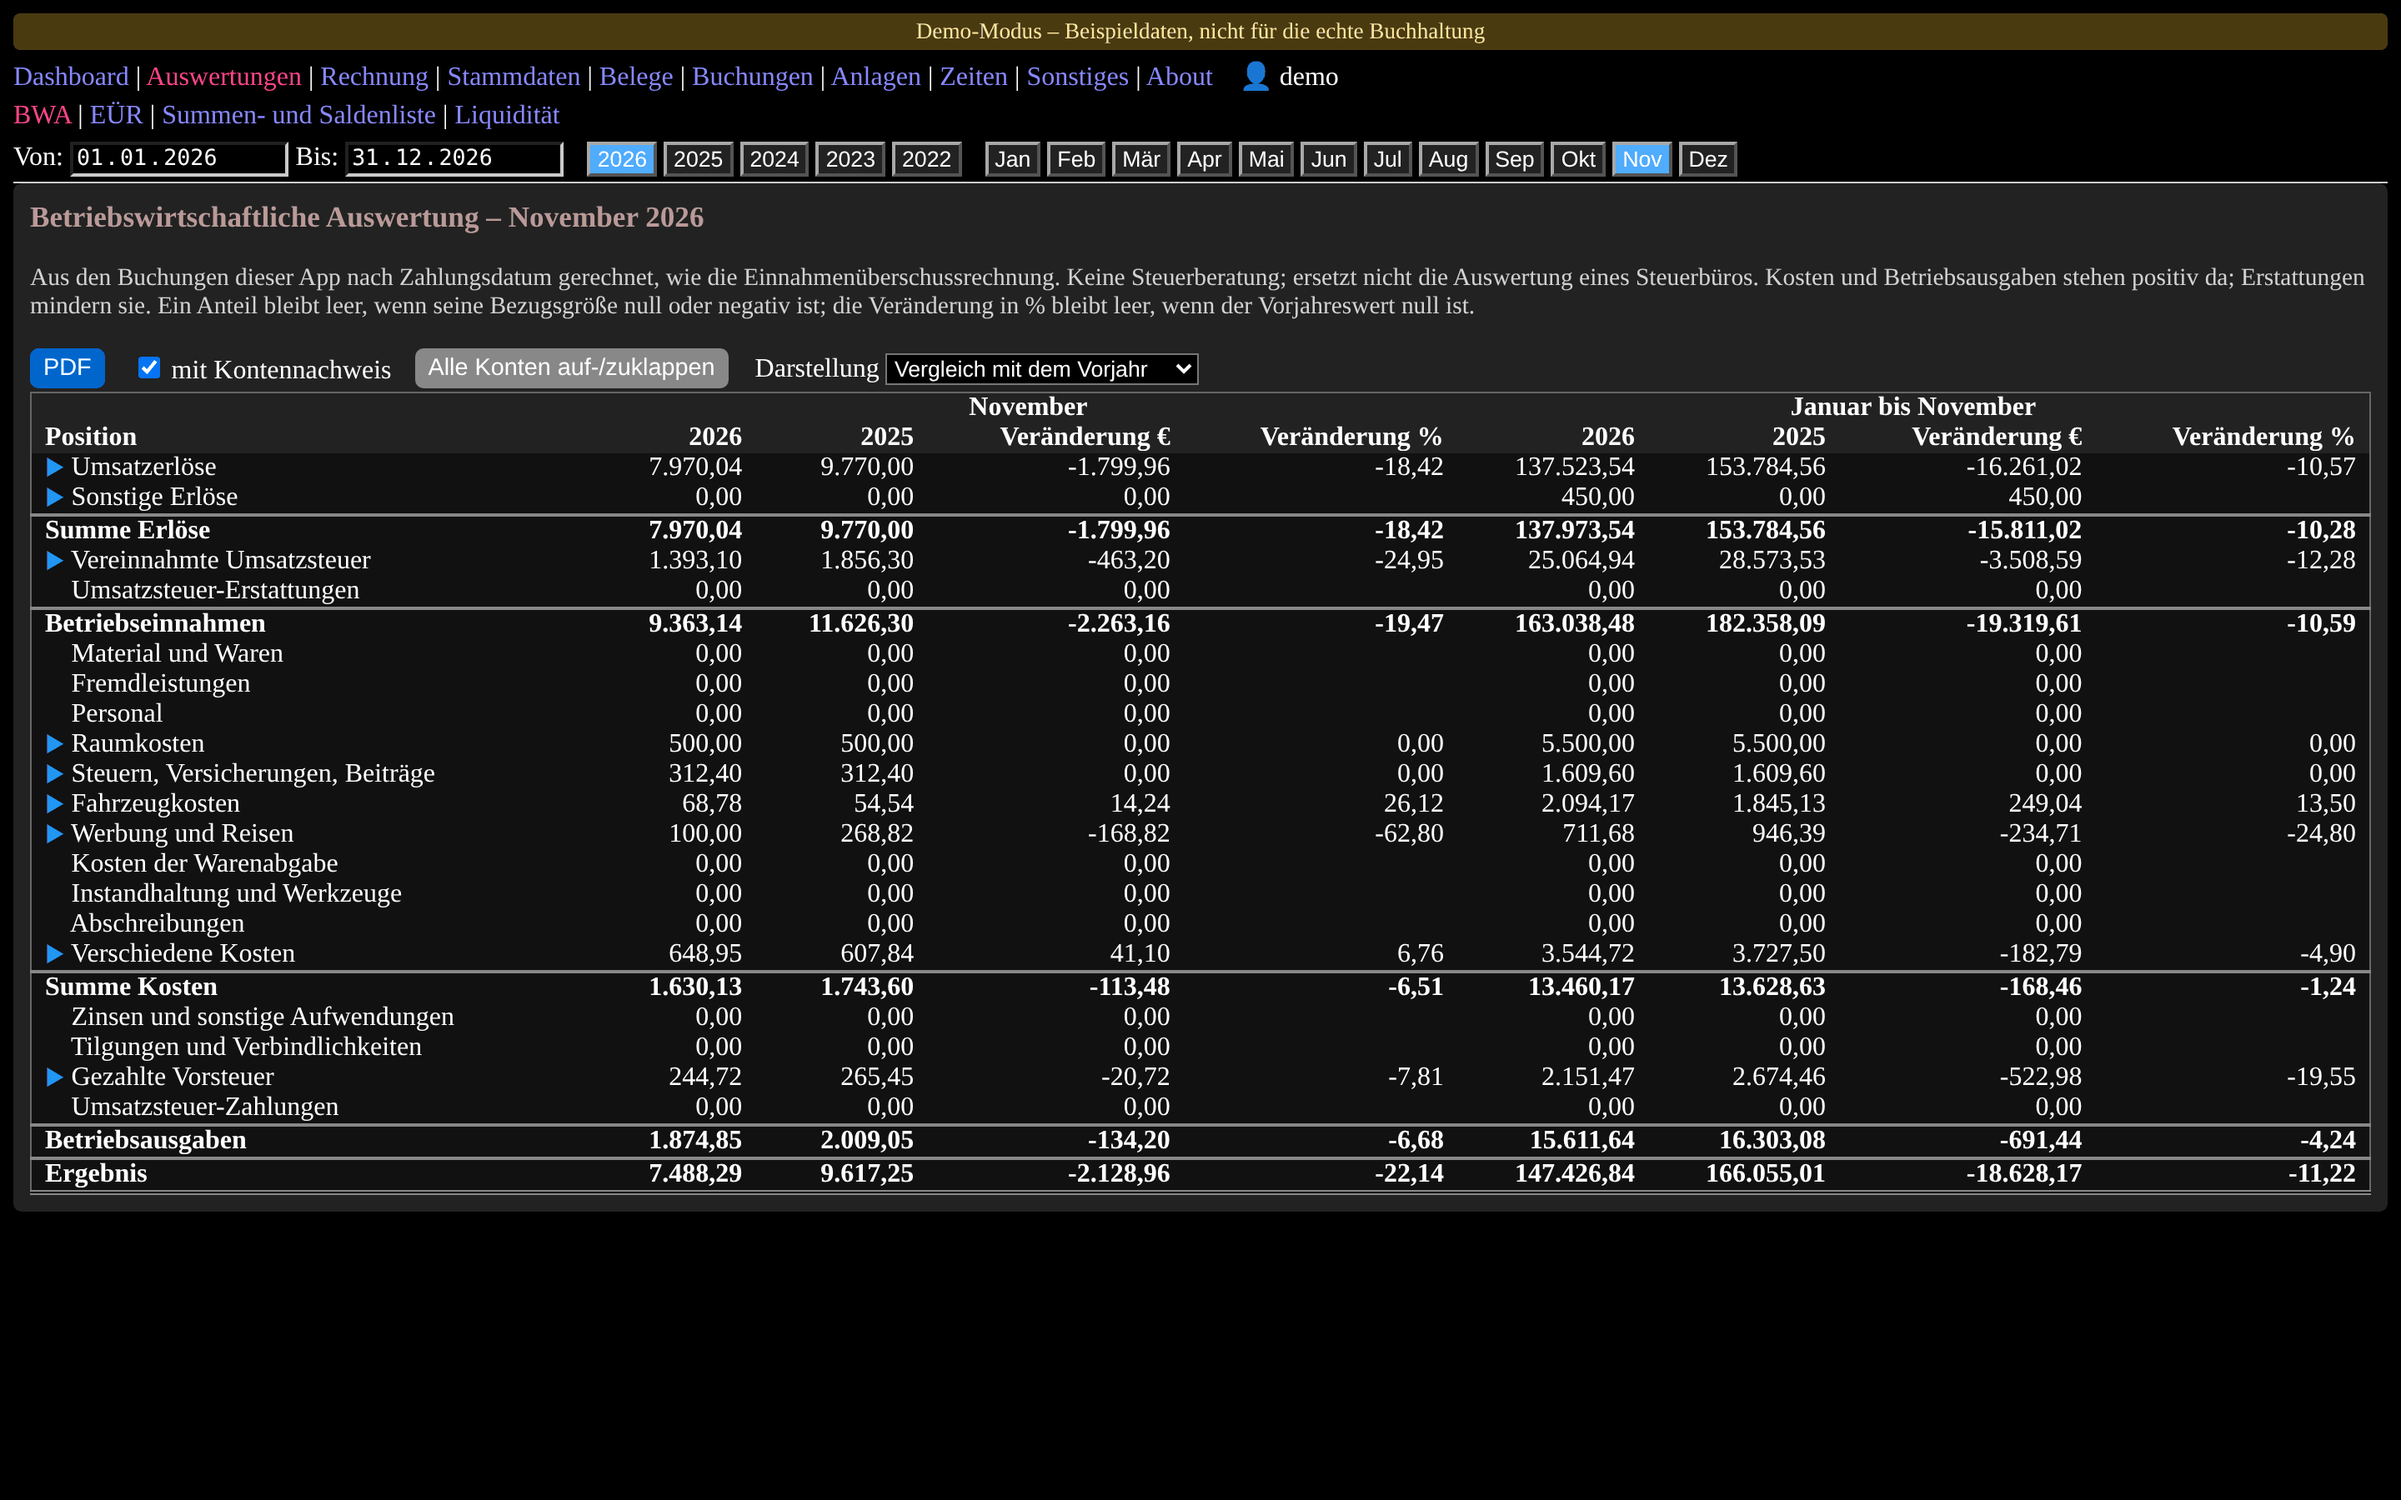
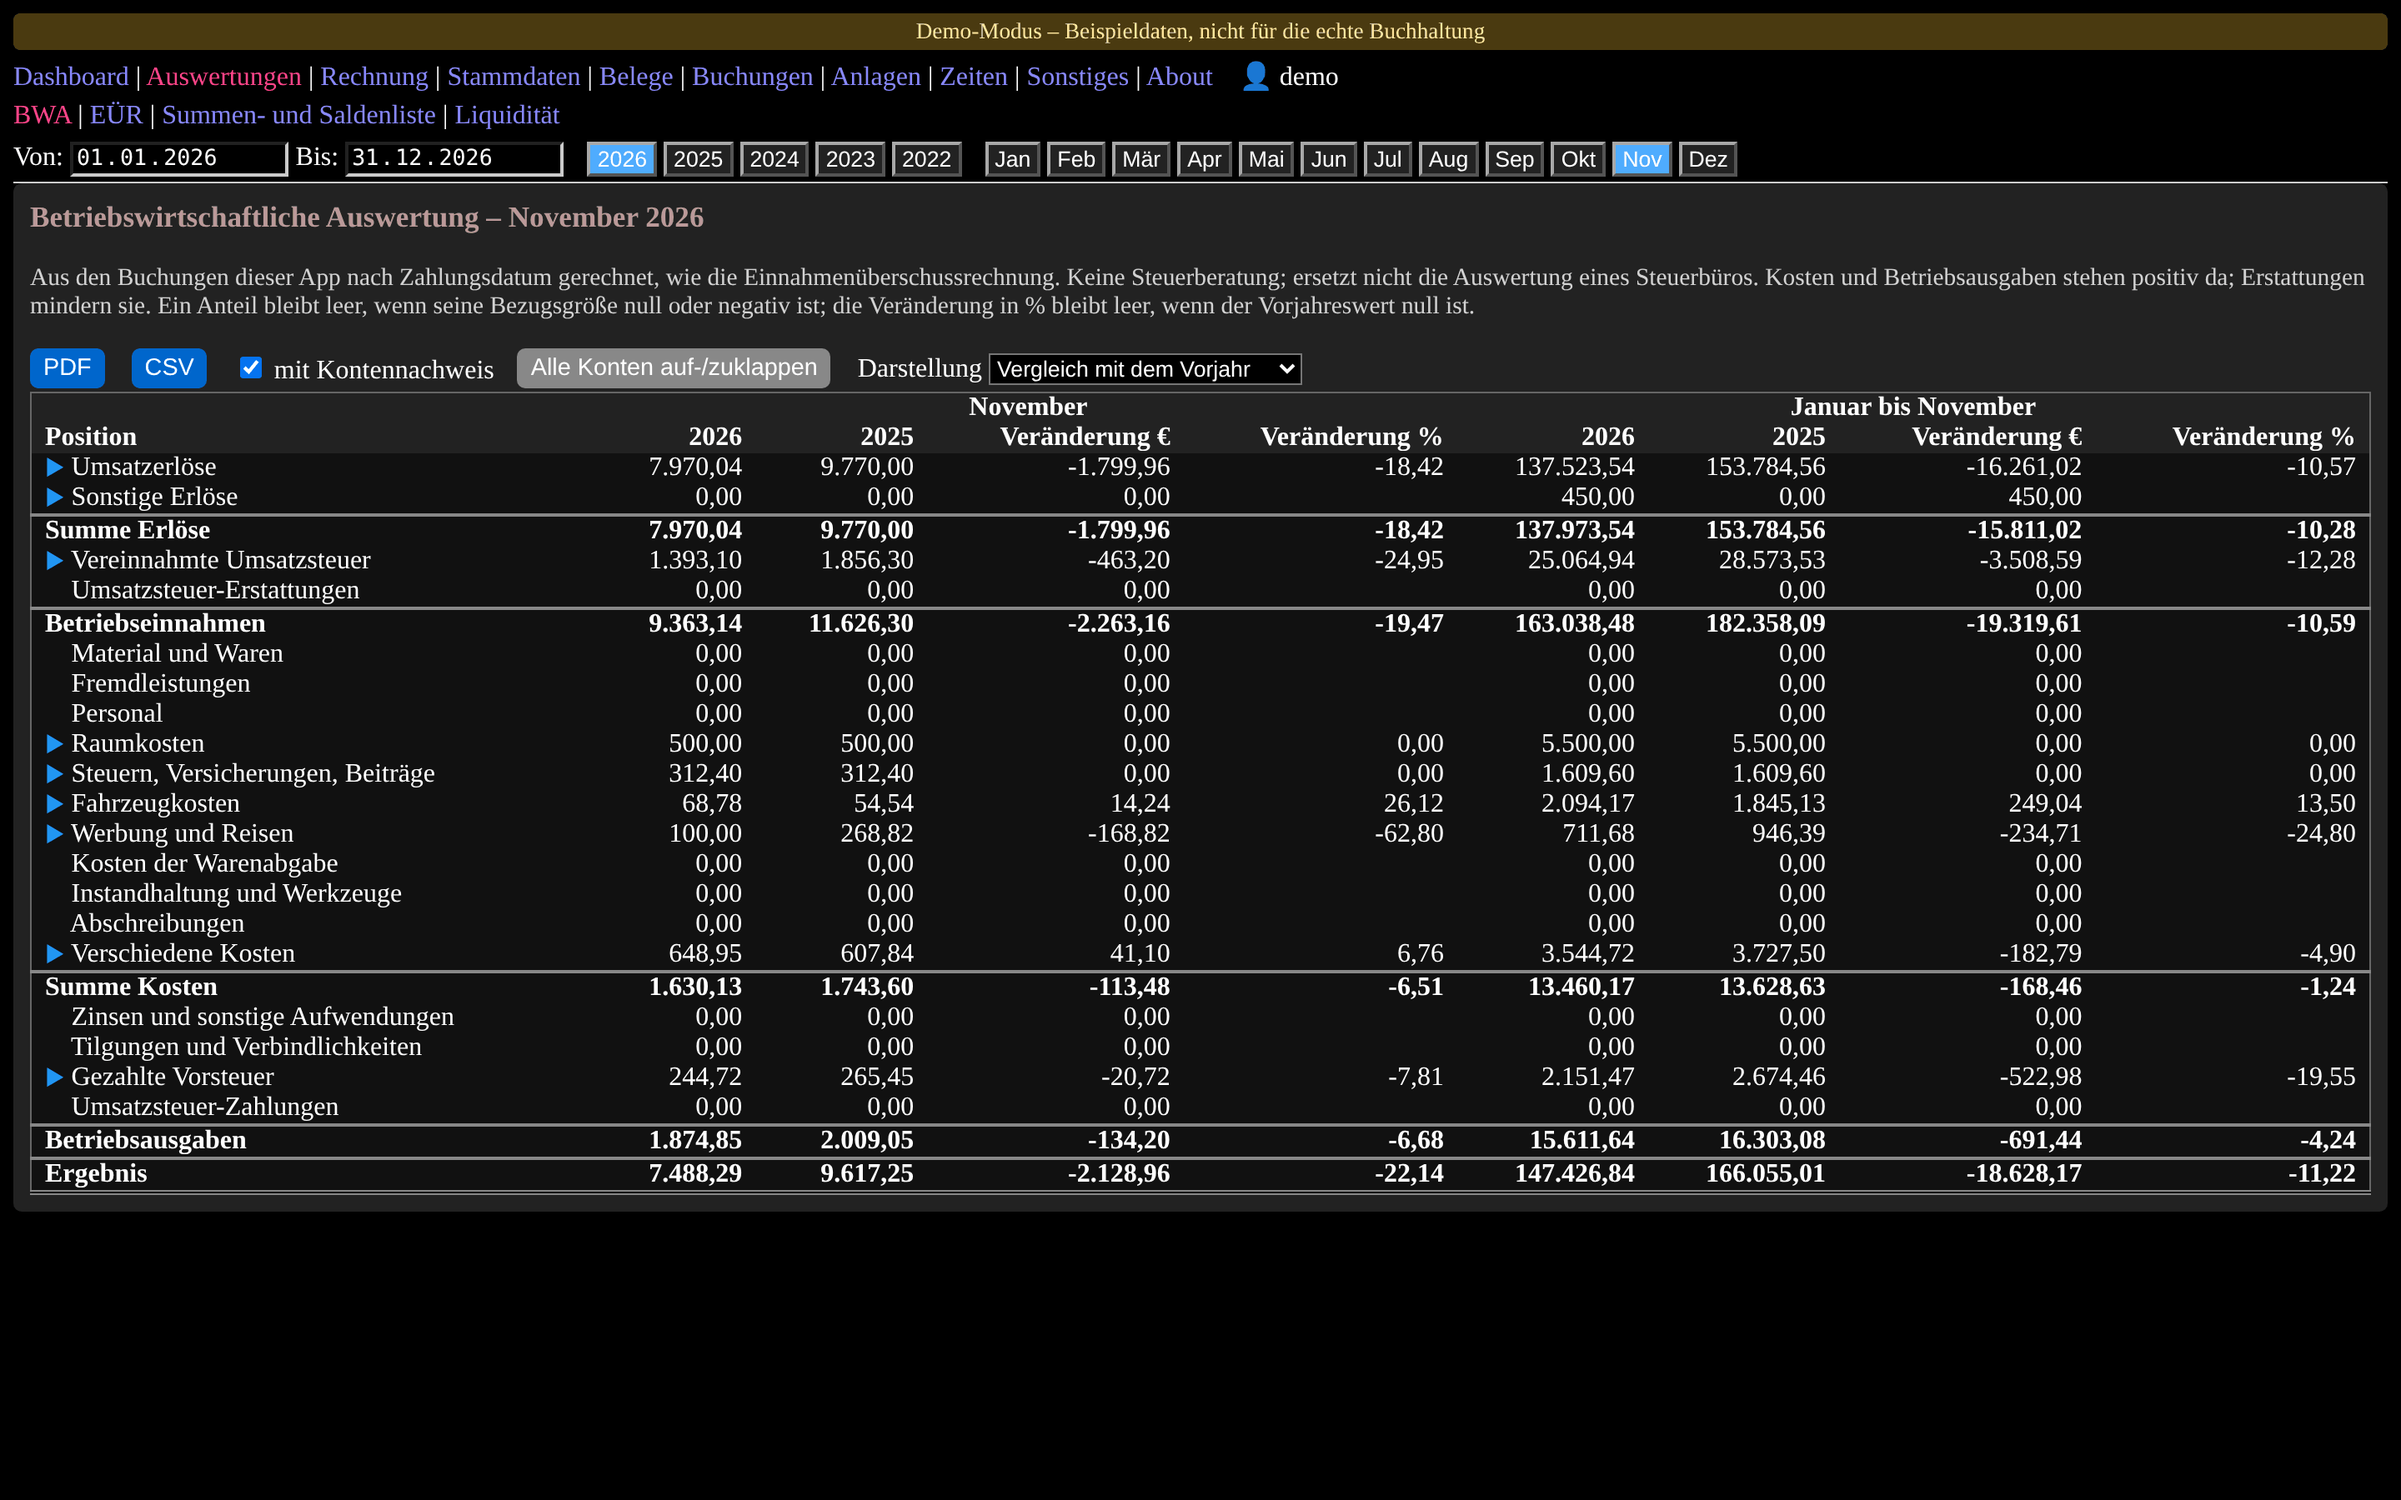
chore(version): 2.6.8 – CSV für BWA und Summen- und Saldenliste, Demo-Modus ohne Uploads
Projektstatistik und README-Bilder für 2.6.8.

Changed region(s): [[0.0312, 0.2178, 0.5625, 0.28]]

diff --git a/version.py b/version.py
@@ -24,7 +24,7 @@ Version und wird nicht geöffnet (``db.SchemaTooNewError``).
 
 MAJOR = 2
 SCHEMA_STEP = 6      # +1 bei jeder DB-Schema-Änderung (= mittlere Versionsstelle); höchstens 999
-PATCH = 7            # +1 bei sonstigen Änderungen ohne DB-Bezug
+PATCH = 8            # +1 bei sonstigen Änderungen ohne DB-Bezug
 
 SCHEMA_VERSION = MAJOR * 1000 + SCHEMA_STEP   # steht als PRAGMA user_version in der Datenbank
 APP_VERSION = f"{MAJOR}.{SCHEMA_STEP}.{PATCH}"
